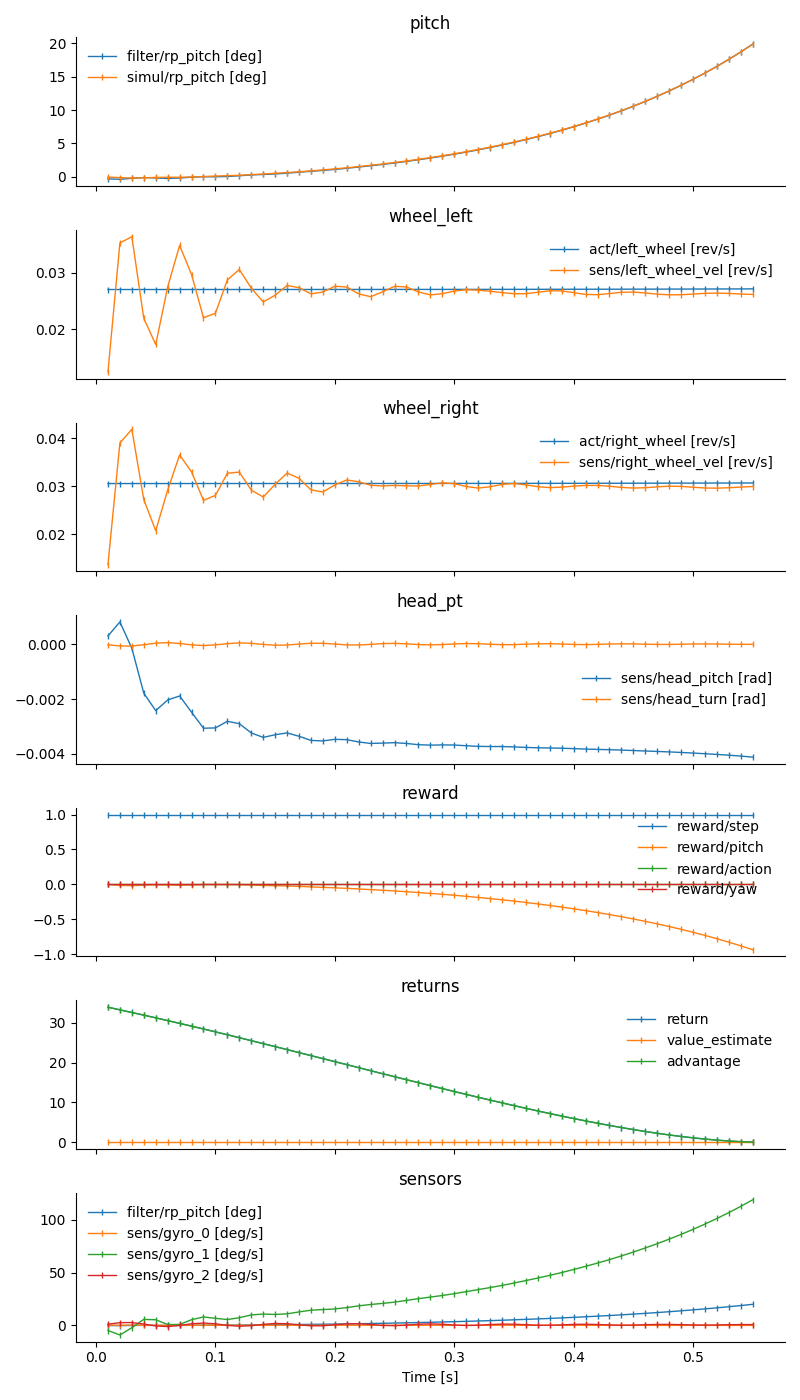
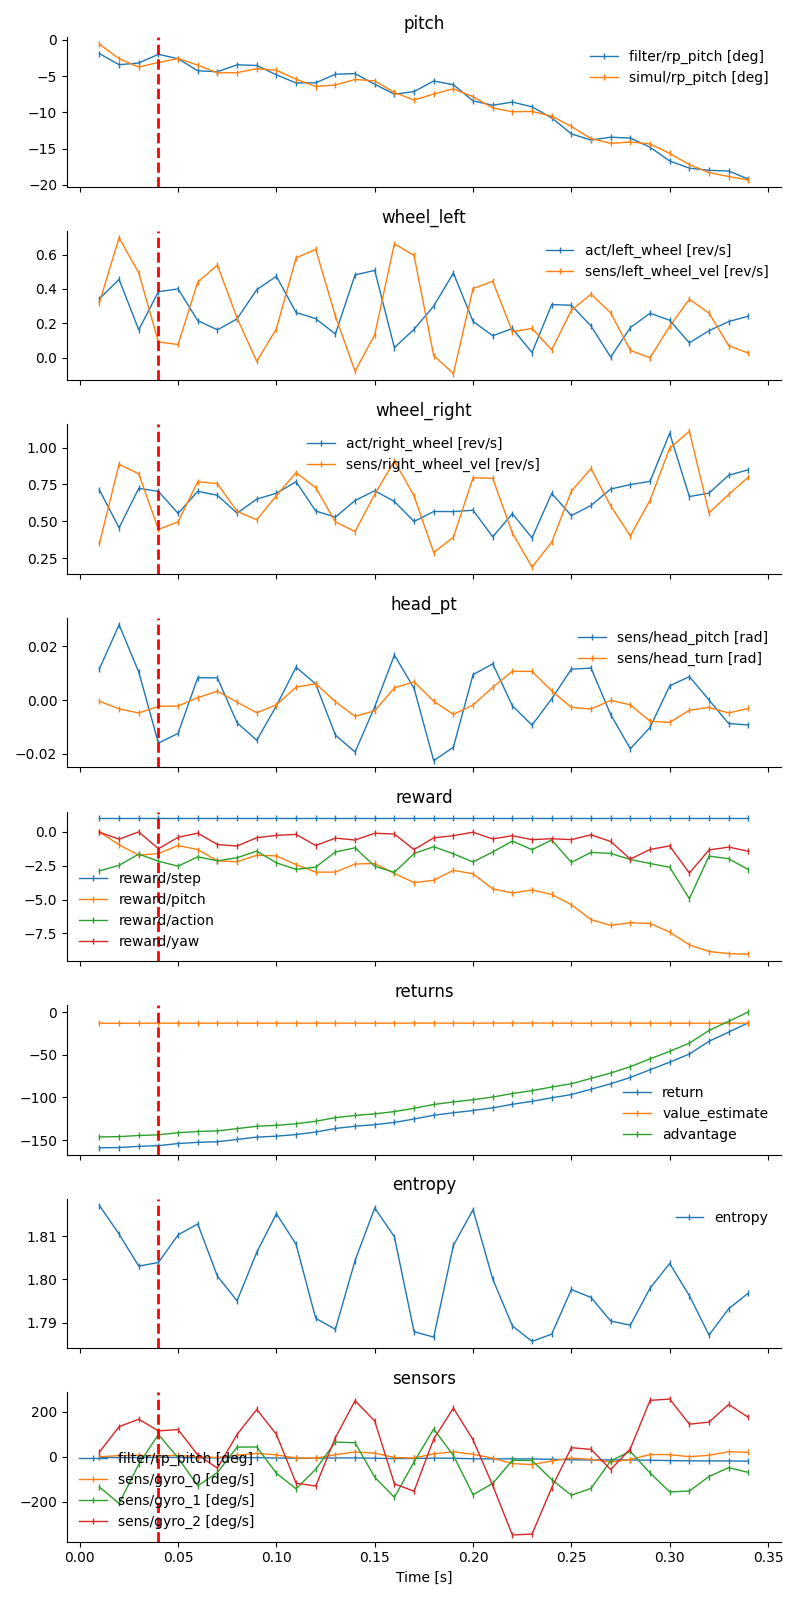
Protect from CLAUDE...

diff --git a/src/riktigpatric/patrick.py b/src/riktigpatric/patrick.py
@@ -215,7 +215,7 @@ class State:
         self.mahony = Mahony()
         self.prev_t = 0
         self._action_dict = StepAction().to_dict()
-        self._info_dict = {}
+        self._reward_dict = {}
         self._record = record
         self._history = []
 
@@ -231,11 +231,7 @@ class State:
         right_wheel_vel: float,
         true_pitch: float,
         action: Optional[StepAction] = None,
-        reward: Optional[float] = None,
-        reward_step: Optional[float] = None,
-        reward_pitch: Optional[float] = None,
-        reward_action: Optional[float] = None,
-        reward_yaw: Optional[float] = None,
+        reward_info: Optional[dict[str, float]] = None,
     ):
         self.obs.update_t = t
         self.obs.update_gyro = gyro
@@ -253,20 +249,11 @@ class State:
         if action is not None:
             self._action_dict = action.to_dict()
 
-        # Preserve env/time, clear rest
-        env_time = self._info_dict.get("env/time", np.array([0.0]))
-        env_time[0] = t
-        self._info_dict = {"env/time": env_time}
-        if reward is not None:
-            self._info_dict["reward"] = np.array([reward])
-        if reward_step is not None:
-            self._info_dict["reward/step"] = np.array([reward_step])
-        if reward_pitch is not None:
-            self._info_dict["reward/pitch"] = np.array([reward_pitch])
-        if reward_action is not None:
-            self._info_dict["reward/action"] = np.array([reward_action])
-        if reward_yaw is not None:
-            self._info_dict["reward/yaw"] = np.array([reward_yaw])
+        # Clear and update reward dict
+        self._reward_dict = {}
+        if reward_info is not None:
+            for key, value in reward_info.items():
+                self._reward_dict[key] = np.array([value])
 
         if self._record:
             arr = self.get_state_arr(keys="all")
@@ -306,7 +293,7 @@ class State:
         self.prev_t = 0
         self._history = []
         self._action_dict = StepAction().to_dict()
-        self._info_dict = {"reward": 0, "env/time": np.array([0.0])}
+        self._reward_dict = {}
         self.obs = Obs()
 
     def get_state_dict(
@@ -321,10 +308,10 @@ class State:
             "sens/right_wheel_vel": self.obs.right_wheel_vel,
             "filter/rp_pitch": np.array([self.euler[1]]),
             "simul/rp_pitch": self.obs.true_pitch,
-            "time": np.array([self.obs.t]),
+            "env/time": np.array([self.obs.t]),
         }
         d.update(self._action_dict)
-        d.update(self._info_dict)
+        d.update(self._reward_dict)
 
         if keys is None:
             keys = self.keys
@@ -375,7 +362,6 @@ class State:
             k: spaces.Box(-np.inf, np.inf, shape=(len(v),), dtype=float)
             for k, v in self.get_state_dict(keys="all").items()
         }
-        d["env/time"] = spaces.Box(0, np.inf, shape=(1,), dtype=float)
         return spaces.Dict(d)
 
 

diff --git a/src/sim/envs/rp_env.py b/src/sim/envs/rp_env.py
@@ -3,11 +3,11 @@ from typing import Any, Optional, Union
 import gymnasium
 import matplotlib.pyplot as plt
 import numpy as np
-import torch
 from dm_control import mjcf
-from filters.qutils import q2eul
 from gymnasium import spaces
-from riktigpatric.patrick import State, StepAction, StepReturn
+
+from filters.qutils import q2eul
+from riktigpatric.patrick import State, StepAction
 from sim.sim_config import MAX_V, REWARD_CONFIG
 
 BODY_D = 0.05
@@ -272,6 +272,10 @@ class GymRP(gymnasium.Env):
 
         reward, reward_info = self._get_reward()
 
+        # Prepare full reward info including total reward
+        full_reward_info = {"reward": reward}
+        full_reward_info.update(reward_info)
+
         self.state.update(
             t=self.dm_env.data.time,
             acc=self.dm_env.bind(self.acc_sens).sensordata.copy(),
@@ -286,25 +290,12 @@ class GymRP(gymnasium.Env):
             ).sensordata.copy()[0],
             true_pitch=pitch,
             action=self._prev_action,
-            reward=reward,
-            reward_step=reward_info["reward/step"],
-            reward_pitch=reward_info["reward/pitch"],
-            reward_action=reward_info["reward/action"],
-            reward_yaw=reward_info["reward/yaw"],
+            reward_info=full_reward_info,
         )
 
     def _get_obs(self) -> dict:
         d = self.state.get_state_dict(keys="all")
         return d
-
-    def reset(
-        self, options: Optional[Any] = None, seed: int | None = None
-    ) -> tuple[dict, dict]:
-        self.dm_env = self._reset_env(seed)
-        self.state.reset()
-
-        d, i = self._get_obs(), self._get_info()
-        return d, i
 
     def _get_reward(self) -> tuple[float, dict]:
         pitch = abs(self.state.euler[1])
@@ -323,6 +314,15 @@ class GymRP(gymnasium.Env):
             "reward/action": action_penalty,
             "reward/yaw": yaw_penalty,
         }
+
+        # Add termination penalty if robot falls
+        if self.terminated:
+            termination_penalty = -REWARD_CONFIG.get("termination_penalty", 0.0)
+            info["reward/termination"] = termination_penalty
+            total += termination_penalty
+        else:
+            info["reward/termination"] = 0.0
+
         return total, info
 
     def _get_info(self) -> dict:
@@ -443,14 +443,6 @@ class GymRP(gymnasium.Env):
         self._update_state()
 
         reward, reward_info = self._get_reward()
-
-        # Add termination penalty if robot falls
-        if self.terminated:
-            termination_penalty = -REWARD_CONFIG.get("termination_penalty", 0.0)
-            reward += termination_penalty
-            reward_info["reward/termination"] = termination_penalty
-        else:
-            reward_info["reward/termination"] = 0.0
 
         info = self._get_info()
         info.update(reward_info)

diff --git a/src/sim/try_policy.py b/src/sim/try_policy.py
@@ -1,5 +1,4 @@
 import argparse
-from dataclasses import dataclass
 
 import gymnasium as gym
 import matplotlib
@@ -8,18 +7,15 @@ matplotlib.use("Agg")  # Non-interactive backend
 import matplotlib.pyplot as plt
 import numpy as np
 import torch
-from gymnasium.envs.registration import register
 from gymnasium.wrappers import (
-    RecordEpisodeStatistics,
     RecordVideo,
-    TransformObservation,
 )
 
 from sim.algos import REINFORCE, compute_returns, compute_value_estimates
 from sim.custom_policies import NetPolicy, PIDPolicy
+from sim.nets import PolicyNetwork
 from sim.sim_config import ENV_CONFIG, MODEL_INPUT, OBS_SPACE, RL_CONFIG
 from sim.utils import Tape, actiondim, model_indim, register_and_make_env
-from sim.nets import PolicyNetwork
 
 parser = argparse.ArgumentParser()
 
@@ -108,7 +104,7 @@ def plot_state_history(
 ):
     plot_groups = plot_groups or PlotGroups()
 
-    time_idx = idx_dict.pop("time")
+    time_idx = idx_dict["env/time"]
 
     print("Available:")
     for k in idx_dict:
